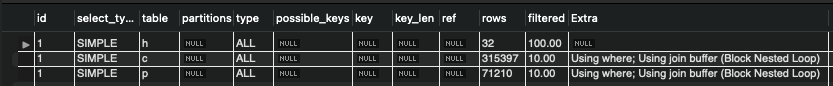
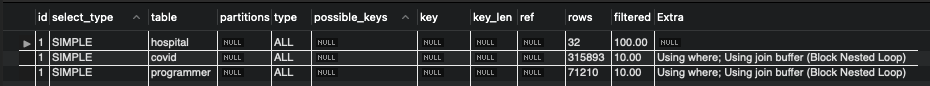
docs(README.md): fix SELECT columns according to the requirement

Changed region(s): [[0.0, 0.3488, 1.0, 1.0], [0.0312, 0.1395, 0.7491, 0.2791], [0.0, 0.0233, 1.0, 0.0465]]

diff --git a/README.md b/README.md
@@ -208,13 +208,13 @@ ORDER BY manager_salary_top5.연봉 DESC;
     - **Query**
     ```sql
     SELECT
-      p.id AS programmer_id,
-      h.name AS hospital_name
-    FROM programmer AS p
-    JOIN covid AS c
-      ON c.programmer_id = p.id
-    JOIN hospital AS h
-      ON h.id = c.hospital_id
+      covid.id AS covid_id,
+      hospital.name AS hospital_name
+    FROM programmer
+    JOIN covid
+      ON covid.programmer_id = programmer.id
+    JOIN hospital
+      ON hospital.id = covid.hospital_id
     ```
     - **Result Grid**  
     ![](mission_results/step4/hospital-name-by-programmer/result_grid.png)
@@ -228,8 +228,8 @@ ORDER BY manager_salary_top5.연봉 DESC;
       ![](mission_results/step4/hospital-name-by-programmer/explain_no_idx.png)
       ![](mission_results/step4/hospital-name-by-programmer/visual_explain_no_idx.png)
       - 인덱스 사용 후  
-      ![](mission_results/step4/hospital-name-by-programmer/explain_idx.png)
-      ![](mission_results/step4/hospital-name-by-programmer/visual_explain_idx.png)
+      ![](mission_results/step4/hospital-name-by-programmer/explain_idx_join_keys.png)
+      ![](mission_results/step4/hospital-name-by-programmer/visual_explain_idx_join_keys.png)
   - [x] **프로그래밍이 취미인 학생 혹은 주니어(0-2년)들이 다닌 병원 이름을 반환하고 user.id 기준으로 정렬하세요. (covid.id, hospital.name, user.Hobby, user.DevType, user.YearsCoding)**
     - **Index**  
     ```sql
